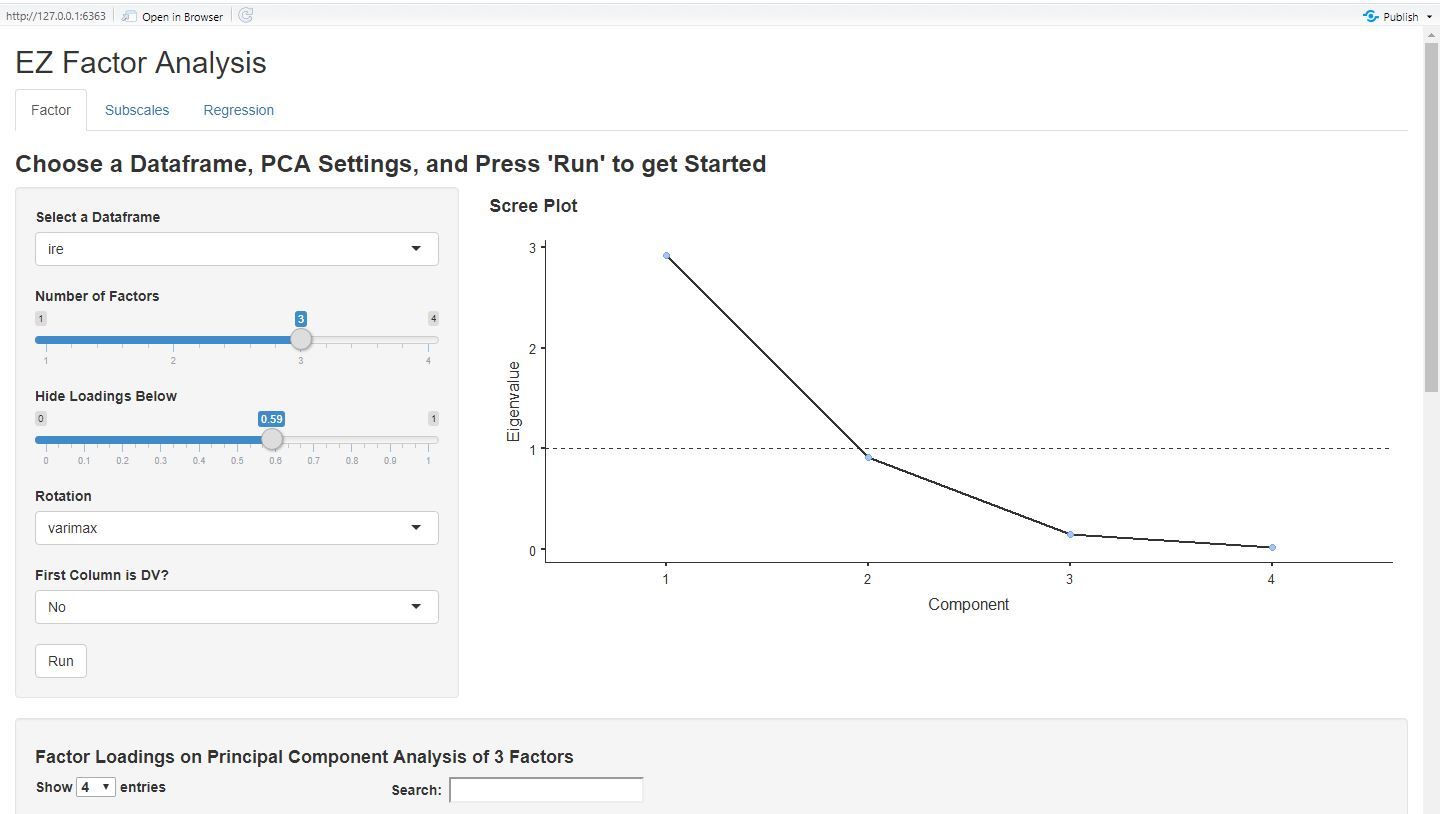
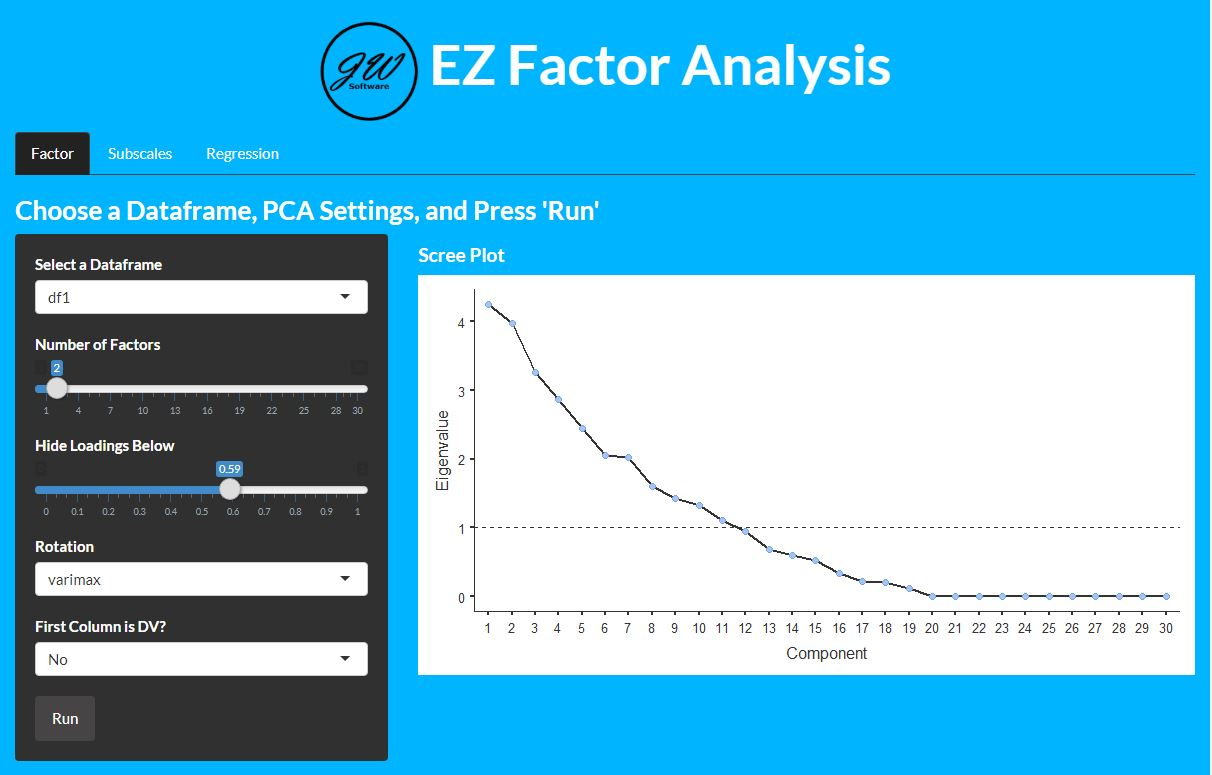
Updated Styles
- Added shiny theme
- Added logo
- Changed background color
- Reformatted tables to have better separation and be more intuitive
- Reformatted correlation matrix to fit in window better

diff --git a/R/styles.css b/R/styles.css
@@ -1,0 +1,42 @@
+body{
+	background-color: rgba(0,180,255,1);
+}
+
+hr{
+	border: 1px solid white;
+}
+
+h1{
+	font-size: 56px;
+	font-weight: 700;
+	text-align: center;
+}
+
+table.table.dataTable tbody tr.active td {
+	color: unset !important;
+}
+
+label, a, th, thead, .paginate_button{
+	color: white !important;
+}
+
+select{
+	color: black;
+}
+
+.shiny-output-error{
+	background-color: rgb(255,255,255) !important;
+}
+
+#cor.plot{
+	width: 100%;
+}
+
+#component-statistics{
+	padding-left: 15px;
+}
+
+#Regression-Run{
+	top: 0px;
+}
+
